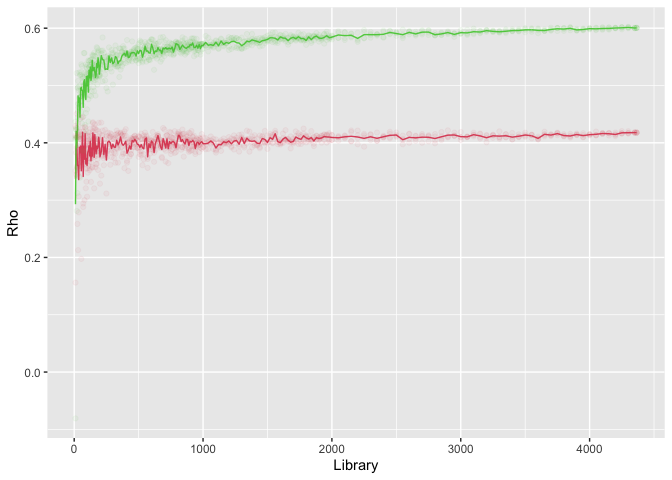
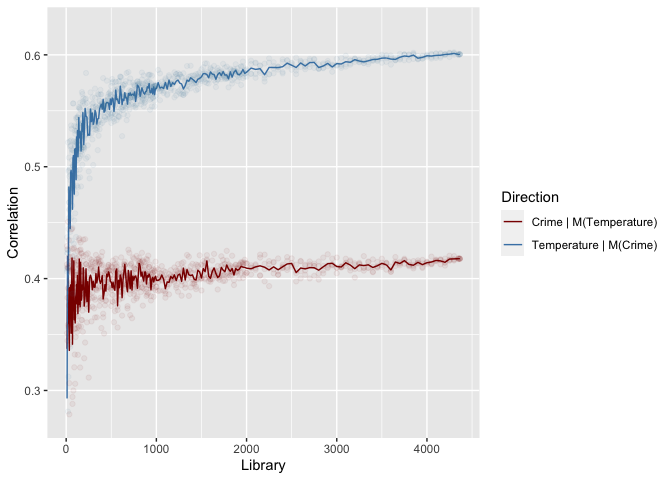
Had to knit the REAME.Rmd manually to update Chicago plot

diff --git a/README.md b/README.md
@@ -35,6 +35,7 @@ and crime rates, is described in full in our
 library(fastEDM)
 library(ggplot2)
 library(readr)
+library(tidyr)
 
 data <- url("https://raw.githubusercontent.com/EDM-Developers/EDM/master/test/chicago.csv")
 chicago <- read_csv(data, col_types = cols(crime = col_double()))
@@ -48,23 +49,26 @@ res1 <- edm(chicago["t"], chicago["temp"], chicago["crime"],
 res2 <- edm(chicago["t"], chicago["crime"], chicago["temp"],
                        E=7, library=libs, numReps=4, verbosity=0, numThreads=4)
 
-averaged1 <- aggregate(res1$summary[, c("mae", "rho")], list(res1$summary$library), mean)
-averaged2 <- aggregate(res2$summary[, c("mae", "rho")], list(res2$summary$library), mean)
-colnames(averaged1)[[1]] <- "library"
-colnames(averaged2)[[1]] <- "library"
+averaged1 <- stats::aggregate(rho ~ library, res1$summary, mean)
+averaged2 <- stats::aggregate(rho ~ library, res2$summary, mean)
 
-p <- ggplot() + 
-  geom_line(data = averaged1, aes(x = library, y = rho), color = 2) +
-  geom_line(data = averaged2, aes(x = library, y = rho), color = 3) +
-  xlab("Library") +
-  ylab("Rho")
+averaged <- data.frame(Library = averaged1$library,
+                       temp.to.crime = averaged1$rho,
+                       crime.to.temp = averaged2$rho)
 
-p <- p + 
-  geom_point(data = res1$summary, aes(x = library, y = rho), alpha = 0.05, color = 2) +
-  geom_point(data = res2$summary, aes(x = library, y = rho), alpha = 0.05, color = 3) +
-  geom_smooth(method = "loess", alpha = 0.9)
+combined <- gather(averaged, key = "Direction", value = "Correlation", -Library)
+combined[combined$Direction == "temp.to.crime", "Direction"] <- "Crime | M(Temperature)"
+combined[combined$Direction == "crime.to.temp", "Direction"] <- "Temperature | M(Crime)"
+
+p <- ggplot(combined, aes(x = Library, y = Correlation)) + 
+  geom_line(aes(color = Direction)) + scale_color_manual(values = c("darkred", "steelblue")) +
+  geom_point(data = res1$summary, aes(x = library, y = rho), alpha = 0.05, color = "darkred") +
+  geom_point(data = res2$summary, aes(x = library, y = rho), alpha = 0.05, color = "steelblue") +
+  ylim(c(0.275, 0.625))
 
 print(p)
+#> Warning: Removed 4 rows containing missing values (geom_point).
+#> Warning: Removed 1 rows containing missing values (geom_point).
 ```
 
 <img src="man/figures/README-example-1.png" width="100%" />
